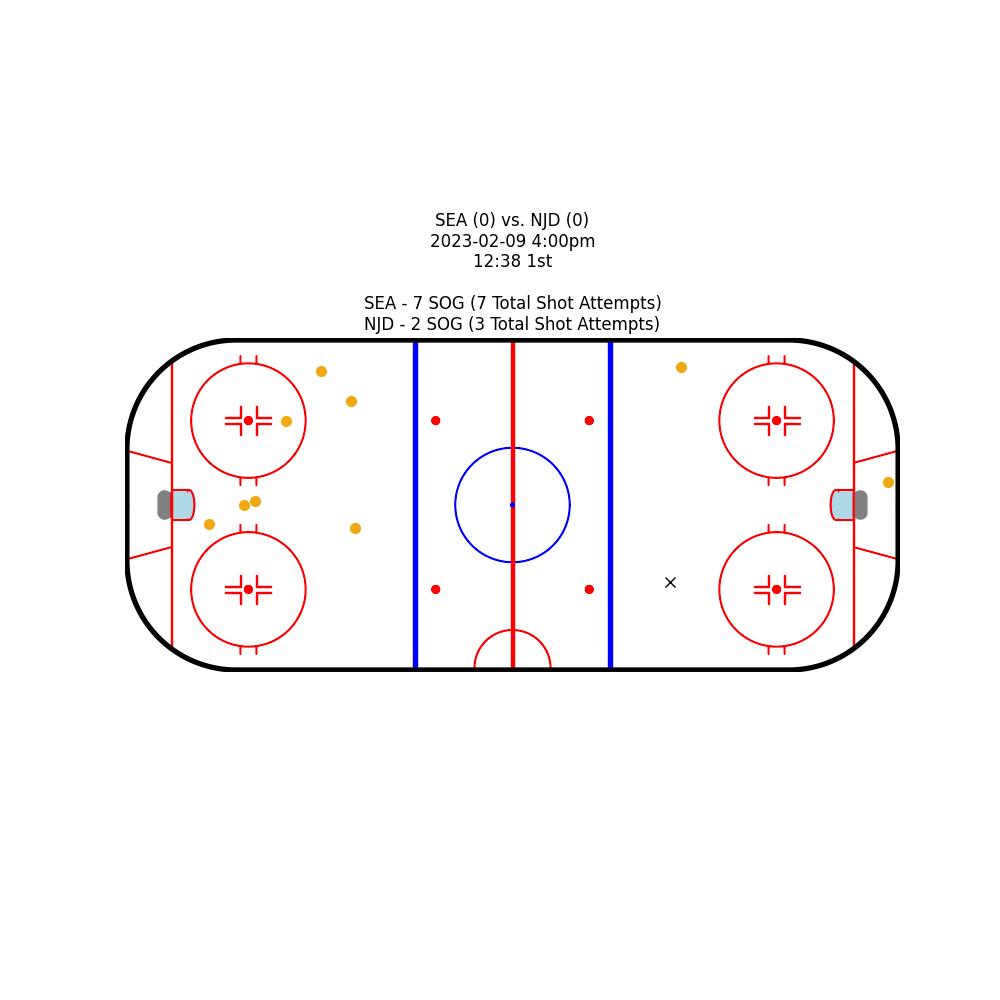
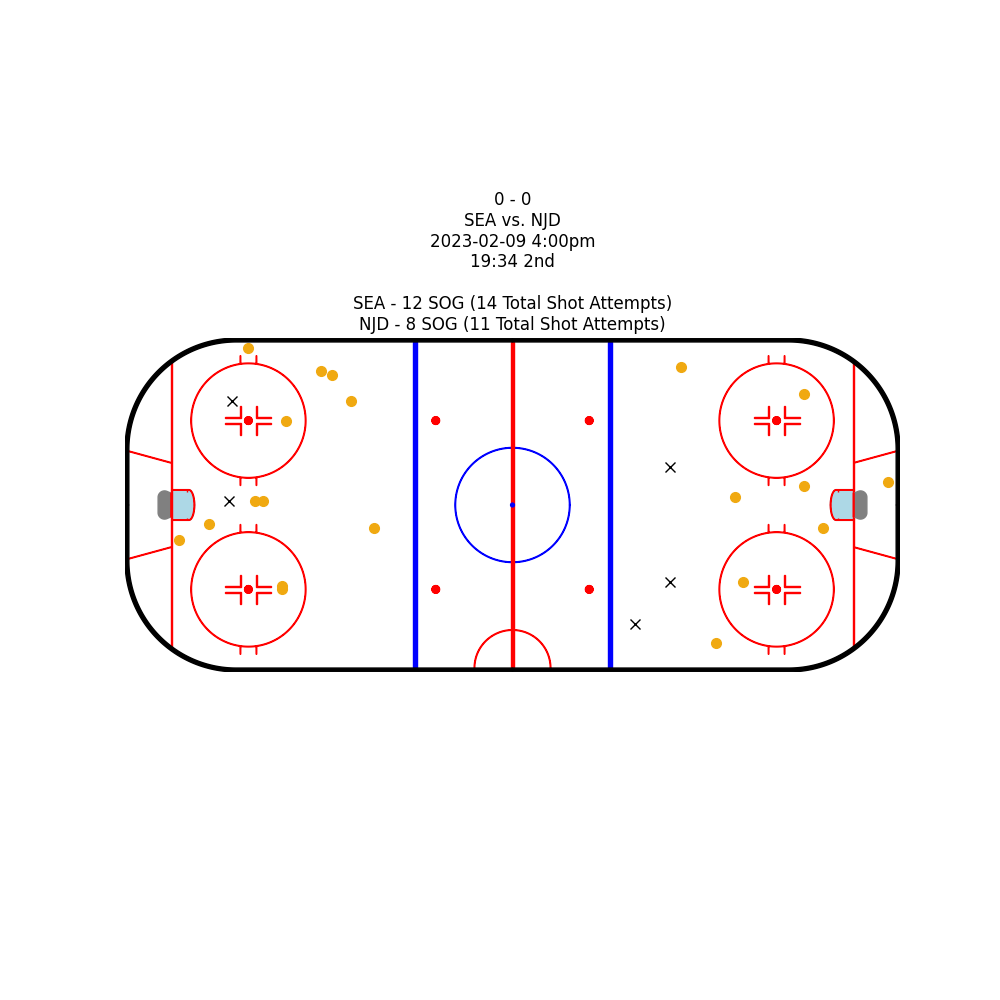
Display goals as the first line of our title

diff --git a/examples/NHLShotChart.py b/examples/NHLShotChart.py
@@ -102,14 +102,14 @@ def generate_shot_chart_for_game(gameId):
     home_shot_attempts = result['homeShotAttempts']
 
     # Build our title
-    title_line1 = away_team + " (" + str(away_goals) + ")" + \
-        " vs. " + home_team + " (" + str(home_goals) + ")" + "\n"
+    title_line0 = str(away_goals) + " - " + str(home_goals) + "\n"
+    title_line1 = away_team + " vs. " + home_team + "\n"
     title_line2 = gameStartLocalDateTime + "\n"
     title_line3 = gameStatus + "\n\n"
     title_line4 = away_team + " - " + str(away_sog) + " SOG (" + str(away_shot_attempts) + " Total Shot Attempts)\n" + \
         home_team + " - " + str(home_sog) + " SOG (" + \
         str(home_shot_attempts) + " Total Shot Attempts)"
-    title = title_line1 + title_line2 + title_line3 + title_line4
+    title = title_line0 + title_line1 + title_line2 + title_line3 + title_line4
     # --------------------------------------------------------------------------------------------------------
 
     # --------------------------------------------------------------------------------------------------------
